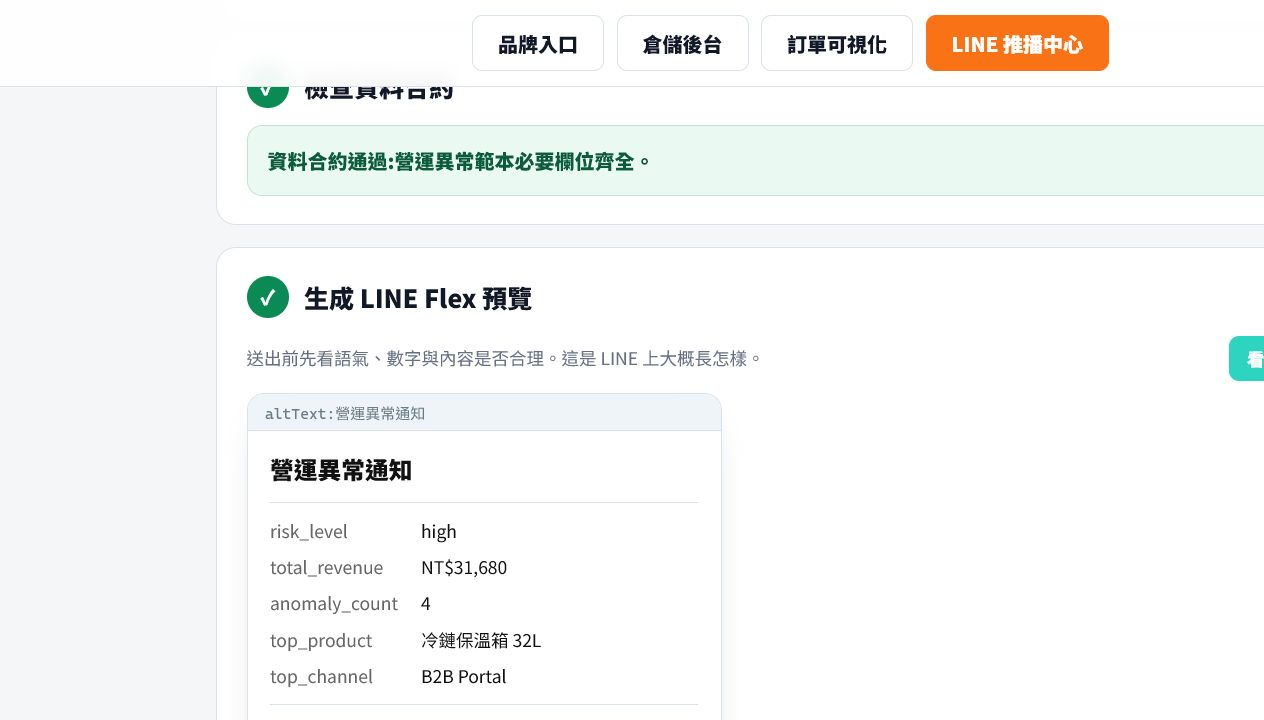
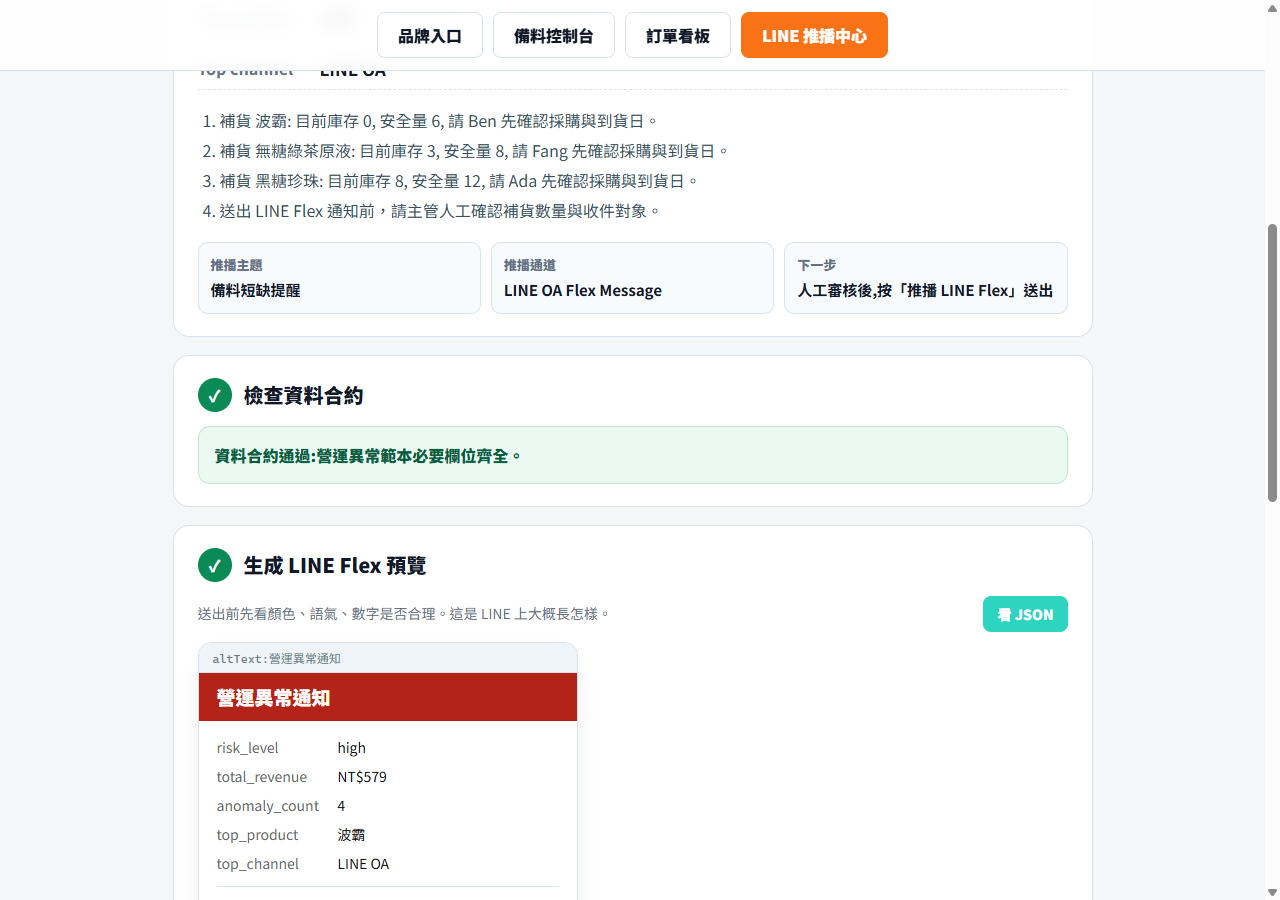
更新c3

diff --git a/slides/slides/u11-c3-data/index.tsx b/slides/slides/u11-c3-data/index.tsx
@@ -1,9 +1,10 @@
 import type { DesignSystem, Page, SlideMeta } from '@open-slide/core';
 import { useSlidePageNumber } from '@open-slide/core';
 import type { ReactNode } from 'react';
-import pushOverview from './assets/push-center-overview.png';
-import flexAnomaly from './assets/flex-preview-anomaly.png';
+import liveBoardRunning from './assets/live-board-running.png';
 import flexOrder from './assets/flex-preview-order.png';
+import flexInventory from './assets/flex-preview-inventory.png';
+import flexAnomaly from './assets/flex-preview-anomaly.png';
 
 export const design: DesignSystem = {
   palette: { bg: '#f5f6f8', text: '#181a1f', accent: '#e2570d' },
@@ -54,7 +55,8 @@ type Kind =
   | 'analogy'
   | 'ask'
   | 'shot'
-  | 'twoshot';
+  | 'twoshot'
+  | 'threeshot';
 
 type CardSpec = { title: string; body: string; color?: string };
 type SlideSpec = {
@@ -72,8 +74,10 @@ type SlideSpec = {
   footer?: string;
   img?: string;
   img2?: string;
+  img3?: string;
   caption?: string;
   caption2?: string;
+  caption3?: string;
   frame?: string;
   analogy?: string;
   ask?: string;
@@ -247,8 +251,24 @@ const TwoShot = ({ slide }: { slide: SlideSpec }) => (
   </div>
 );
 
+// 三張並排:訂單資訊(藍) / 庫存警示(琥珀) / 營運異常(紅) 同時對照
+const ThreeShot = ({ slide }: { slide: SlideSpec }) => (
+  <div style={{ display: 'grid', gridTemplateColumns: '1fr 1fr 1fr', gap: 20, maxWidth: 1600, justifyItems: 'center' }}>
+    {[
+      [slide.img, slide.caption],
+      [slide.img2, slide.caption2],
+      [slide.img3, slide.caption3],
+    ].map(([img, caption], i) => (
+      <div key={i} style={{ display: 'grid', gap: 10, justifyItems: 'center' }}>
+        <BrowserShot img={img as string} frame={slide.frame} height={360} />
+        {caption ? <div style={{ fontSize: 21, color: C.muted, textAlign: 'center', lineHeight: 1.4 }}>{caption}</div> : null}
+      </div>
+    ))}
+  </div>
+);
+
 const slides: SlideSpec[] = [
-  { kind: 'cover', eyebrow: 'U11 · 第 3 堂 / 共 4 堂 · 4 小時', title: '從「看到資料」到\n「真的送出 LINE Flex」', lead: '今天把 BOBA TIDE 的一筆訂單，從訂單看板一路送成真的 LINE Flex 通知：生成預覽、人工審核，最後真的推播到 LINE OA。' },
+  { kind: 'cover', eyebrow: 'U11 · 第 3 堂 / 共 4 堂 · 4 小時', title: '一間「營業中」的手搖飲店，\n接上 LINE', lead: '訂單持續進來、庫存自己往下掉、改個數字警示就跳出來——今天做出一個真的在動的自動化管理平台，人審後真的推播到 LINE OA。' },
 
   { kind: 'analogy', eyebrow: 'U2 回顧 → U3 定位', footer: 'U11·C3 ｜ 講義:U3/STEP-01', title: 'U2 管住的是 AI 改 code；U3 換成資料真的送出去', analogy: 'U2 練的是：AI 改程式碼要可控，計畫先過人審，實作才小範圍動手。\n\n今天資料不再只留在畫面上：同一筆訂單會真的變成一則送到 LINE OA 的通知，送出去之前，一樣要先過人審。\n\n控制的對象從「AI 改了什麼」擴大成「系統送出了什麼」。' },
 
@@ -258,56 +278,43 @@ const slides: SlideSpec[] = [
     { title: 'U4 · 擴充能力', body: 'AI 能碰到哪些外部工具、能不能多個角色協作：MCP 接外部工具、ops agent 三角色分工。', color: '#5a6270' },
   ] },
 
-  { kind: 'flow', eyebrow: '今日主線 · 大 picture', footer: 'U11·C3 ｜ 講義:U3/START-HERE.md', title: '一筆訂單，怎麼變成一則真的通知', steps: ['資料 data\n訂單欄位', 'payload\n包成固定格式', 'API\n呼叫自己的後端', 'token\n後端拿鑰匙開門', 'LINE OA\n真的送出'] },
+  { kind: 'shot', eyebrow: '今日成果 · 平台會動', footer: 'U11·C3 ｜ 講義:U3/ACCEPTANCE.md', title: '這就是今天要做出來的「營業中」平台', img: liveBoardRunning, caption: '真截圖:按下「開始營業」後,訂單持續進來、KPI 跳動、庫存自動往下掉,右上角是推播建議,連到下面的 LINE 推播中心。' },
 
-  { kind: 'cards', eyebrow: '今天先講清楚五個詞', footer: 'U11·C3 ｜ 講義:U3/API-FLOW.md', title: '這五個詞，今天會一直用到', cards: [
-    { title: '資料 data', body: '一筆訂單本身：客戶、通路、狀態、金額。今天放在 shopData.js 與 data-lab/orders.json。', color: C.orange },
-    { title: 'payload', body: '把資料包成「別的系統看得懂」的固定格式，準備送出去的那包內容。', color: C.blue },
-    { title: 'API', body: '一個固定的門：送對格式，它回你結果。今天呼叫的是自己的後端 /api/send-line-flex。', color: C.amber },
-    { title: 'token', body: '證明「有權限用這個 LINE OA 帳號發訊息」的密鑰，只放在 line-lab/.env。', color: C.red },
-    { title: 'webhook', body: 'LINE 平台主動打回來的訊息，方向跟今天的推播相反，先知道概念就好。', color: '#5a6270' },
-  ] },
-
-  { kind: 'shot', eyebrow: '今日成果畫面', footer: 'U11·C3 ｜ 講義:U3/ACCEPTANCE.md', title: '這就是今天要做出來的「推播中心」', img: pushOverview, caption: '這張是推播中心 UI 示意：上面是範本切換(營運異常 / 訂單資訊)，下面是五步：載入 → 檢查 → 預覽 → 人審 → 推播，整條線在同一個畫面上完成。' },
+  { kind: 'threeshot', eyebrow: '今日成果 · 三種顏色', footer: 'U11·C3 ｜ 講義:U3/PROMPT-CARD.md', title: '同一套流程，推出三種顏色的卡片', img: flexOrder, caption: '訂單資訊 · 藍', img2: flexInventory, caption2: '庫存警示 · 琥珀', img3: flexAnomaly, caption3: '營運異常 · 紅' },
 
   { kind: 'cards', eyebrow: '完成的定義 · DoD', footer: 'U11·C3 ｜ 講義:START-HERE.md(DoD)', title: 'AI / 系統做出來不算完成,通過驗收才算完成', cards: [
-    { title: '畫面', body: '訂單看板正常，訂單資訊 Flex 預覽正確。', color: C.orange },
-    { title: '推播', body: '按鈕按下去，LINE OA / 群組 / 手機真的收到訊息。', color: C.blue },
+    { title: '畫面', body: '看板動起來,三種顏色的 Flex 預覽都正確。', color: C.orange },
+    { title: '推播', body: '按鈕按下去,LINE OA / 群組 / 手機真的收到訊息。', color: C.blue },
     { title: 'diff', body: 'git diff 只有本堂允許檔案。', color: C.amber },
     { title: 'build', body: 'npm run build 綠色通過、bundle 無 token。', color: C.red },
     { title: 'human review', body: 'checkbox 是你勾的、修正是你放行的。', color: '#5a6270' },
   ] },
 
-  // ── 段 1：BOBA TIDE 情境，訂單怎麼進到訂單看板 ──────────
-  { kind: 'section', sectionNo: '1', footer: '講義:U3/STEP-01-dashboard-buttons.md', time: '0:15 - 0:50', title: 'BOBA TIDE 情境：訂單怎麼進到訂單看板', lead: '備料控制台的下一步，是把同一批訂單攤開成看得懂的看板：每一筆訂單的狀態變成一條畫面上的流程。' },
+  // ── 段 1：看懂 API 與 payload ─────────────────────────
+  { kind: 'section', sectionNo: '1', footer: '講義:U3/STEP-01-dashboard-buttons.md', time: '0:15 - 0:50', title: '看懂 API 與 payload：訂單怎麼「活」起來', lead: '按下「開始營業」，伺服端就開始跑模擬：訂單持續進來、庫存自動往下掉。前端每 3 秒問一次「有新資料嗎」，這一問一答就是 API。' },
 
-  { kind: 'code', eyebrow: '段 1 · 資料在哪', footer: 'U11·C3 ｜ 講義:U3/STEP-01 §1', title: '訂單看板讀的是這份 shopData.js', label: 'web-lab/src/shopData.js', code: `export const drinkOrders = [
-  {
-    id: 'BT-20260706-021',
-    customer: '林小姐',
-    channel: 'LINE OA',
-    status: '製作中',
-    amount: 65,
-    eta: '15:10',
-  },
-  // ...其他訂單
-];` },
+  { kind: 'code', eyebrow: '段 1 · 真的請求、真的 payload', footer: 'U11·C3 ｜ 講義:U3/STEP-01 §1', title: '打開 DevTools → Network，看這個請求', label: 'GET /api/orders', code: `{
+  "running": true,
+  "stats": { "totalToday": 11, "active": 5, "blocked": 0, "revenue": 780 },
+  "orders": [
+    { "id": "BT-20260707-050", "customer": "王先生", "channel": "LINE OA",
+      "status": "待製作", "amount": 230, "eta": "14:01" }
+  ],
+  "inventory": [
+    { "sku": "BT-P02", "product": "波霸", "stock": 6, "reorderPoint": 6 }
+  ],
+  "alerts": { "lineWaitingCount": 3, "lowStock": [ /* ... */ ] }
+}` },
 
-  { kind: 'cards', eyebrow: '段 1 · 一筆訂單的四個欄位', footer: 'U11·C3 ｜ 講義:U3/STEP-01 §1–2', title: '這四個欄位決定畫面長怎樣', cards: [
-    { title: 'channel', body: 'LINE OA / 外送平台 / 櫃台。今天要真的送出去的是 LINE OA 這一種。', color: C.orange },
-    { title: 'status', body: '待製作 / 製作中 / 待取餐 / 已取餐 / 缺料等待，決定流程點位置與顏色。', color: C.blue },
-    { title: 'amount', body: '這筆訂單的金額，不是裝飾數字。', color: C.amber },
-    { title: 'eta', body: '客人預期什麼時候拿到；快超過就是提醒的理由。', color: C.red },
+  { kind: 'cards', eyebrow: '段 1 · 方向相反的兩件事', footer: 'U11·C3 ｜ 講義:U3/API-FLOW.md', title: '我們今天做的是「拉」，webhook 是「推」', cards: [
+    { title: '輪詢 polling（今天做的）', body: '前端主動每 3 秒問一次「有新資料嗎」——GET /api/orders，資料在你這邊主動更新。', color: C.blue },
+    { title: 'webhook（方向相反）', body: 'LINE 平台主動打進來通知「使用者傳訊息了」，你不用一直問，先知道概念就好。', color: '#5a6270' },
   ] },
 
-  { kind: 'code', eyebrow: '段 1 · 前端檔案', footer: 'U11·C3 ｜ 講義:U3/STEP-01 §2', title: '三個檔案先看懂，不需要整個 React 都會', label: 'web-lab/src', code: `OrderBoard.jsx        // React component:一筆訂單畫成一條 lane
-OrderBoardCanvas.jsx  // three.js:訂單狀態動畫
-styles.css            // CSS:狀態顏色、版面、RWD` },
+  // ── 段 2：LINE OA 與 Flex Message ──────────────────────
+  { kind: 'section', sectionNo: '2', footer: '講義:U3/STEP-01-dashboard-buttons.md', time: '0:50 - 1:30', title: '同一筆訂單，變成一張 LINE 卡片', lead: '訂單看板是給你看的畫面；Flex Message 是給 LINE OA 用的 payload。今天會做出三種：訂單資訊、庫存警示、營運異常。' },
 
-  // ── 段 2：Flex Message，同一筆訂單變成可預覽的 LINE 卡片 ──
-  { kind: 'section', sectionNo: '2', footer: '講義:U3/STEP-01-dashboard-buttons.md', time: '0:50 - 1:25', title: '同一筆訂單，變成一張 LINE 卡片', lead: '訂單看板是給你看的畫面；Flex Message 是給 LINE OA 用的 payload。兩邊講的是同一種資料語言。' },
-
-  { kind: 'code', eyebrow: '段 2 · 這筆會變成 Flex', footer: 'U11·C3 ｜ 講義:U3/STEP-01 §2', title: 'LINE 推播中心讀的是這份範例', label: 'data-lab/orders.json', code: `{
+  { kind: 'code', eyebrow: '段 2 · 訂單資訊範本', footer: 'U11·C3 ｜ 講義:U3/STEP-01 §2', title: '沒開店時，先用這份範例練習', label: 'data-lab/orders.json', code: `{
   "order_id": "BT-20260706-018",
   "customer": "陳同學",
   "channel": "外送平台",
@@ -318,18 +325,17 @@ styles.css            // CSS:狀態顏色、版面、RWD` },
   ]
 }` },
 
-  { kind: 'bullets', eyebrow: '段 2 · 兩份資料不是同一份', footer: 'U11·C3 ｜ 講義:U3/STEP-01 §2', title: '訂單看板跟推播中心，讀的是兩個檔案', bullets: ['訂單看板讀 shopData.js 的整批 drinkOrders，用來畫看板上的每一條 lane。', 'LINE 推播中心的「訂單資訊」範本讀的是另一份 data-lab/orders.json，一次只示範送出「一筆」。', '兩邊欄位語言一致(channel / status / amount)，但檔案是分開的：改了 shopData.js，data-lab/orders.json 不會跟著變。'] },
-
-  { kind: 'cards', eyebrow: '段 2 · Button 1-3', footer: 'U11·C3 ｜ 講義:U3/STEP-01 §2–4', title: '照順序按,每按一步就驗一步', cards: [
-    { title: '1 載入範例資料', body: '畫面出現這筆訂單的欄位摘要：客戶、通路、狀態、金額、品項。', color: C.orange },
+  { kind: 'cards', eyebrow: '段 2 · 照順序按', footer: 'U11·C3 ｜ 講義:U3/STEP-01 §2–4', title: '每按一步就驗一步，三種範本都一樣', cards: [
+    { title: '1 載入資料', body: '訂單資訊/庫存警示優先讀看板即時資料；沒開店就退回靜態範例。', color: C.orange },
     { title: '2 檢查資料合約', body: '綠色「資料合約通過:必要欄位齊全」。', color: C.blue },
-    { title: '3 生成 Flex 視覺預覽', body: '看到 LINE 上大概長怎樣的卡片;還可切「看 JSON」。', color: C.amber },
+    { title: '3 生成 Flex 視覺預覽', body: '看到 LINE 上大概長怎樣的卡片,顏色跟著範本變;還可切「看 JSON」。', color: C.amber },
+    { title: '4 在看板改個數字', body: '訂單看板按「盤點 −5」，故意讓某項原料低於安全量，回推播中心就能看到「庫存警示」跟著變。', color: C.red },
   ] },
 
-  { kind: 'twoshot', eyebrow: '段 2 · 視覺預覽', footer: 'U11·C3 ｜ 講義:U3/STEP-01 §4', title: '預覽是「LINE 上長怎樣」，不是一串 JSON 作文', img: flexOrder, caption: '今天主線：訂單資訊 Flex', img2: flexAnomaly, caption2: '補充範本：營運異常' },
+  { kind: 'bullets', eyebrow: '段 2 · 一份資料合約，三種訊息', footer: 'U11·C3 ｜ 講義:U3/STEP-02 §1', title: '資料一直在變，合約不能變', bullets: ['訂單資訊、庫存警示都優先讀即時看板的 /api/orders；沒開店或在 build/preview 模式才退回靜態範例檔。', '不管資料從哪裡來，檢查用的都是同一套七欄/六欄合約——reportContract.js 與 sendLineAlert.js 逐字一致，這是雙胞胎防線。', '合約不是自動化的阻礙，是護欄：資料可以一直變、一直有新訂單進來，但規則不能變。'] },
 
   // ── 段 3：Mock vs Real ───────────────────────────────
-  { kind: 'section', sectionNo: '3', footer: '講義:U3/STEP-02-hitl-review.md', time: '1:25 - 1:45', title: 'Mock 是安全預設，真送才是今天的主線', lead: '沒設定 token 時，系統會自動走 mock，不會真的打到 LINE。真送需要 .env 與重啟 dev server，是今天要做到的成果。' },
+  { kind: 'section', sectionNo: '3', footer: '講義:U3/STEP-02-hitl-review.md', time: '1:30 - 1:50', title: 'Mock 是安全預設，真送才是今天的主線', lead: '沒設定 token 時，系統會自動走 mock，不會真的打到 LINE。真送需要 .env 與重啟 dev server，是今天要做到的成果。' },
 
   { kind: 'cards', eyebrow: '段 3 · 兩種模式', footer: 'U11·C3 ｜ 講義:U3/STEP-02 §5', title: '差別在有沒有這三個條件都齊', cards: [
     { title: 'mock（預設 fallback）', body: '沒有 token、沒有 LINE_REAL_SEND=1：安全防線，不會真的呼叫 LINE。', color: C.blue },
@@ -337,7 +343,7 @@ styles.css            // CSS:狀態顏色、版面、RWD` },
   ] },
 
   // ── 段 4：Human-in-the-loop ──────────────────────────
-  { kind: 'section', sectionNo: '4', footer: '講義:U3/STEP-02-hitl-review.md', time: '1:45 - 2:00', title: 'Human-in-the-loop：沒勾，就送不出去', lead: '系統把通知準備好，不代表可以送。人審是發送前的閘門，沒勾 checkbox，推播按鈕就是暗的。' },
+  { kind: 'section', sectionNo: '4', footer: '講義:U3/STEP-02-hitl-review.md', time: '1:50 - 2:05', title: 'Human-in-the-loop：沒勾，就送不出去', lead: '系統把通知準備好、把警示算出來，不代表可以送。人審是發送前的閘門，沒勾 checkbox，推播按鈕就是暗的。' },
 
   { kind: 'prompt', eyebrow: '段 4 · Prompt 卡 1', footer: 'U11·C3 ｜ 講義:U3/PROMPT-CARD 卡 1', title: 'Flex Message 內容審核，不改檔', label: '固定學生 prompt', code: `請檢查目前 LINE 推播中心的 Flex 視覺預覽。
 不要改檔。
@@ -349,7 +355,7 @@ styles.css            // CSS:狀態顏色、版面、RWD` },
 5. 可不可以按「推播 LINE Flex」` },
 
   // ── 段 5：真送流程 ───────────────────────────────────
-  { kind: 'section', sectionNo: '5', footer: '講義:U3/API-FLOW.md', time: '2:00 - 2:50', title: '真送流程：前端只按門鈴，後端才開門', lead: '前端永遠不會直接打 api.line.me。推播按鈕呼叫的是本機後端 /api/send-line-flex，token 只留在 line-lab/.env。' },
+  { kind: 'section', sectionNo: '5', footer: '講義:U3/API-FLOW.md', time: '2:05 - 2:50', title: '真送流程：前端只按門鈴，後端才開門', lead: '前端永遠不會直接打 api.line.me。推播按鈕呼叫的是本機後端 /api/send-line-flex，token 只留在 line-lab/.env。' },
 
   { kind: 'analogy', eyebrow: '段 5 · 建立直覺', footer: 'U11·C3 ｜ 講義:U3/STEP-02 §4', title: 'token 就像你家鑰匙', analogy: 'channel access token 代表「用這個 LINE OA 帳號發訊息」的權限。\n\n放進前端 = 把鑰匙貼在大門上,打開網頁的每個人都拿得到。\n\n所以:前端只打自己的 /api/send-line-flex(按門鈴),真正打 api.line.me(開門)的是後端。鑰匙全程留在 line-lab/.env,不進前端、不進簡報、不進 git diff、不進截圖。' },
 
@@ -404,12 +410,12 @@ git diff
 git add .
 git commit -m "完成訂單看板與 LINE OA Flex 真推播"` },
 
-  { kind: 'bullets', eyebrow: '段 7 · 驗收標準', footer: 'U11·C3 ｜ 講義:U3/ACCEPTANCE.md', title: '看到這些才算完成', bullets: ['訂單資訊走通：載入 → 檢查 → 預覽 → 人審 → 推播。', 'LINE OA / 群組 / 手機真的收到 Flex Message。', '未勾 checkbox 時推播按鈕是暗的、按不下去。', 'token 只在 line-lab/.env，沒有進前端、簡報或 commit。', 'npm run build 通過。', 'ReAct 是加分：把「嚴重」修回合約允許值，擋牌消失。'] },
+  { kind: 'bullets', eyebrow: '段 7 · 驗收標準', footer: 'U11·C3 ｜ 講義:U3/ACCEPTANCE.md', title: '看到這些才算完成', bullets: ['開始營業後看板會動:訂單持續進來、KPI 跳動、庫存自動往下掉。', '三種訊息(訂單資訊/庫存警示/營運異常)都能走完載入→檢查→預覽→人審→推播。', 'LINE OA / 群組 / 手機真的收到 Flex Message，顏色跟類型相符。', '未勾 checkbox 時推播按鈕是暗的、按不下去。', 'token 只在 line-lab/.env，沒有進前端、簡報或 commit。', 'npm run build 通過。ReAct 是加分:把「嚴重」修回合約允許值，擋牌消失。'] },
 
   { kind: 'cards', eyebrow: '收束 · 回顧四堂', title: '從「會問 AI」到「會做、會管」', cards: [
     { title: 'C1 進得了專案', body: '打開、跑起來、改一個字、存檔。' },
     { title: 'C2 管得住 AI', body: 'AGENTS/CLAUDE + planner→人審→implementer。(控制輸出)' },
-    { title: 'C3 做出真推播(今天)', body: 'BOBA TIDE 訂單看板、Flex 預覽、人審、LINE OA 真推播。(控制行動)', color: C.orange },
+    { title: 'C3 做出真推播(今天)', body: '會動的訂單看板、三色 Flex 預覽、人審、LINE OA 真推播。(控制行動)', color: C.orange },
     { title: 'C4 下一堂', body: '把流程自動化,再用三個 MCP 幫 AI 接上外部工具。(擴充能力)' },
   ] },
 ];
@@ -442,6 +448,7 @@ const DeckPage = ({ slide }: { slide: SlideSpec }) => {
       {slide.kind === 'ask' && slide.ask ? <AskCard ask={slide.ask} answer={slide.answer ?? ''} /> : null}
       {slide.kind === 'shot' ? <Shot slide={slide} /> : null}
       {slide.kind === 'twoshot' ? <TwoShot slide={slide} /> : null}
+      {slide.kind === 'threeshot' ? <ThreeShot slide={slide} /> : null}
     </Shell>
   );
 };
@@ -449,7 +456,7 @@ const DeckPage = ({ slide }: { slide: SlideSpec }) => {
 const pages = slides.map((slide) => (() => <DeckPage slide={slide} />) as Page);
 
 export const meta: SlideMeta = {
-  title: 'U11-C3: 從看到資料到真的送出 LINE Flex',
+  title: 'U11-C3: 一間營業中的手搖飲店，接上 LINE',
   createdAt: '2026-07-04T00:00:00.000Z',
 };
 